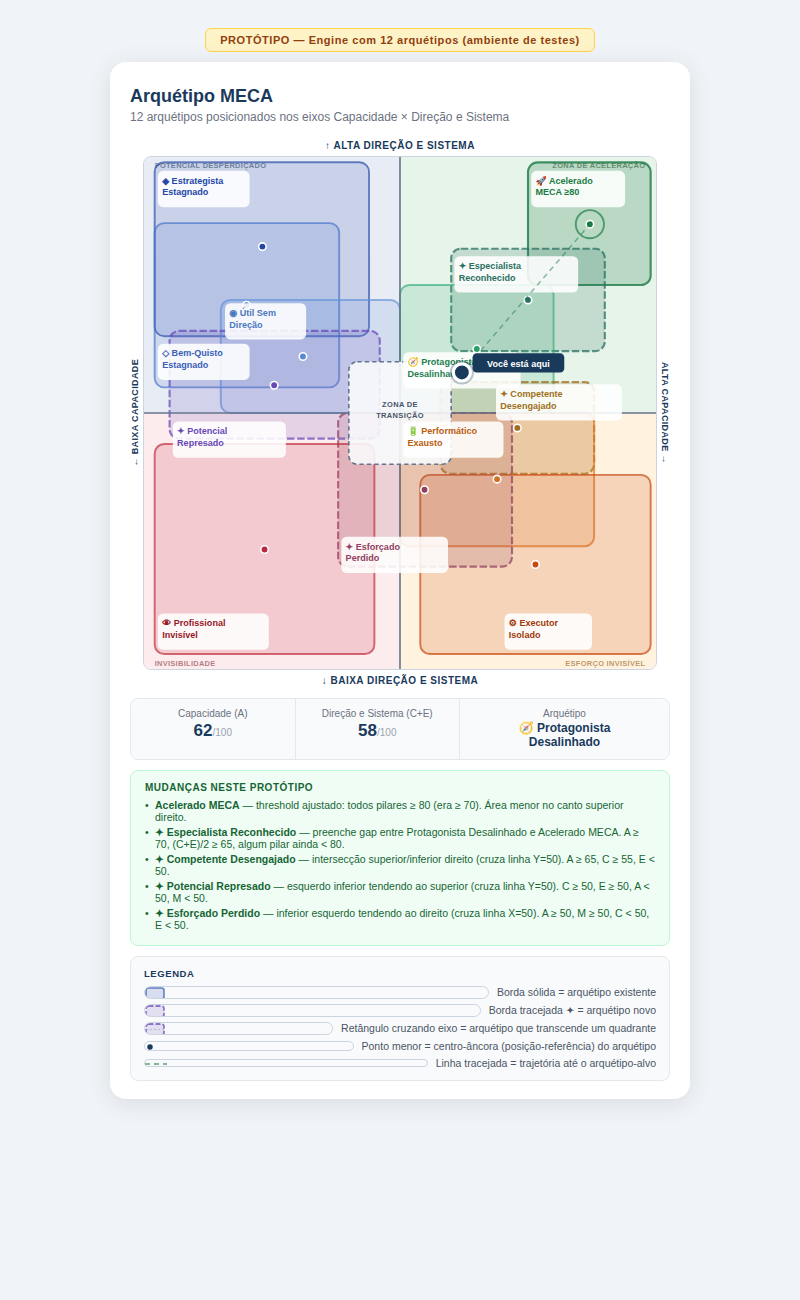
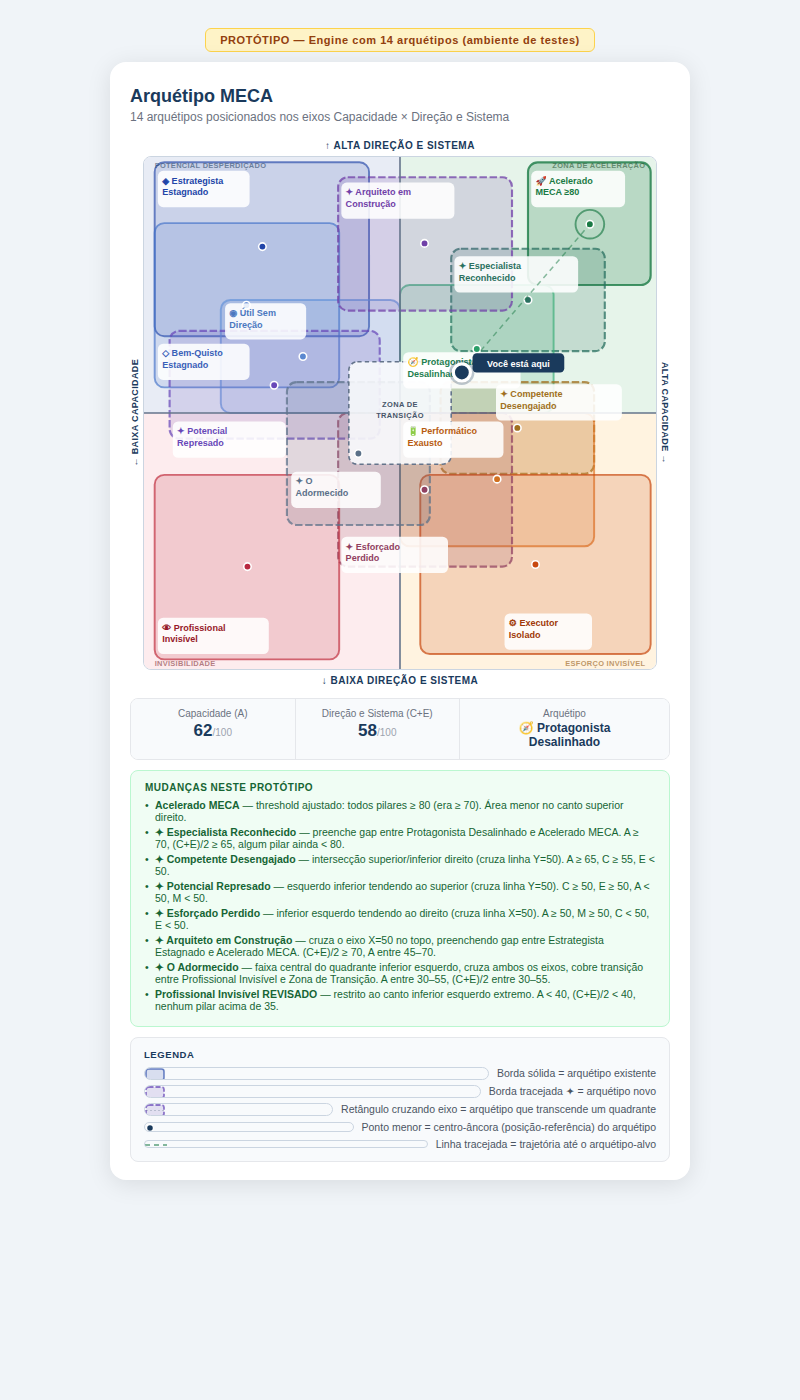
chore(prototype): add archetypes 13-14 and revise Profissional Invisível
- Arquiteto em Construção: spans top-left/right, fills gap Estrategista↔MECA
- O Adormecido: central bottom-left band, crosses both axes
- Profissional Invisível: restricted to extreme bottom-left (A<40, Y<40)

https://claude.ai/code/session_0135fevRsRrq1ujBACc851Ey

Changed region(s): [[0.1562, 0.0, 0.8438, 0.8308]]

diff --git a/archetype-graph-prototype.html b/archetype-graph-prototype.html
@@ -3,7 +3,7 @@
 <head>
   <meta charset="UTF-8">
   <meta name="viewport" content="width=device-width, initial-scale=1.0">
-  <title>Arquétipo MECA — Protótipo 12 Arquétipos</title>
+  <title>Arquétipo MECA — Protótipo 14 Arquétipos</title>
   <style>
     *, *::before, *::after { box-sizing: border-box; margin: 0; padding: 0; }
     body {
@@ -72,11 +72,11 @@
 </head>
 <body>
 
-<div class="badge">PROTÓTIPO — Engine com 12 arquétipos (ambiente de testes)</div>
+<div class="badge">PROTÓTIPO — Engine com 14 arquétipos (ambiente de testes)</div>
 
 <div class="card">
   <h2>Arquétipo MECA</h2>
-  <p class="subtitle">12 arquétipos posicionados nos eixos Capacidade × Direção e Sistema</p>
+  <p class="subtitle">14 arquétipos posicionados nos eixos Capacidade × Direção e Sistema</p>
 
   <div class="axis-top">↑ ALTA DIREÇÃO E SISTEMA</div>
 
@@ -104,6 +104,9 @@
       Performático Exausto     data x=50..88 y=24..50
       Executor Isolado         data x=54..99 y= 3..38
       Esforçado Perdido        data x=38..72 y=20..50  → NOVO (cruza limite inf esq/dir)
+      Arquiteto em Construção  data x=38..72 y=70..96  → NOVO (cruza limite sup esq/dir, topo)
+      O Adormecido             data x=28..56 y=28..56  → NOVO (cruza ambos eixos, inf esq central)
+      Profissional Invisível   data x= 2..38 y= 2..38  → REVISADO (restrito ao canto inf esq extremo)
     ══════════════════════════════════════════
     -->
     <svg viewBox="0 0 480 480" xmlns="http://www.w3.org/2000/svg">
@@ -174,9 +177,21 @@
               stroke-dasharray="7,2.5"/>
 
         <!-- ── BOTTOM-LEFT: Zona de Invisibilidade ── -->
-        <!-- Profissional Invisível: data x=2..45, y=3..44 -->
-        <rect x="10"  y="269" width="206" height="197" rx="9"
+        <!-- Profissional Invisível REVISADO: data x=2..38, y=2..38 → canto extremo inf esq -->
+        <rect x="10"  y="298" width="173" height="173" rx="9"
               fill="#c03040" fill-opacity="0.18" stroke="#c03040" stroke-width="1.8" stroke-opacity="0.70"/>
+
+        <!-- ── SPANNING top-left / top-right (topo) ── -->
+        <!-- Arquiteto em Construção (NOVO): data x=38..72, y=70..96 → cruza X=50 no topo -->
+        <rect x="182" y="19"  width="163" height="125" rx="9"
+              fill="#7040a8" fill-opacity="0.17" stroke="#7040a8" stroke-width="2"   stroke-opacity="0.75"
+              stroke-dasharray="7,2.5"/>
+
+        <!-- ── SPANNING all four borders around center ── -->
+        <!-- O Adormecido (NOVO): data x=28..56, y=28..56 → cruza X=50 e Y=50, inf esq central -->
+        <rect x="134" y="211" width="134" height="134" rx="9"
+              fill="#5a7088" fill-opacity="0.17" stroke="#5a7088" stroke-width="2"   stroke-opacity="0.72"
+              stroke-dasharray="7,2.5"/>
 
       </g>
 
@@ -268,11 +283,25 @@
       <text x="342" y="451" font-size="8.5" font-weight="700" fill="#a03808">   Isolado</text>
       <circle cx="367" cy="382" r="3.5" fill="#c84810" stroke="white" stroke-width="1.5"/>
 
-      <!-- 12. Profissional Invisível — lower-left of its rect -->
-      <rect x="13" y="428" width="104" height="34" rx="5" fill="white" fill-opacity="0.88"/>
-      <text x="17" y="440" font-size="8.5" font-weight="700" fill="#961828">👁 Profissional</text>
-      <text x="17" y="451" font-size="8.5" font-weight="700" fill="#961828">   Invisível</text>
-      <circle cx="113" cy="368" r="3.5" fill="#b82840" stroke="white" stroke-width="1.5"/>
+      <!-- 12. Profissional Invisível REVISADO — canto extremo, rect menor -->
+      <rect x="13" y="432" width="104" height="34" rx="5" fill="white" fill-opacity="0.88"/>
+      <text x="17" y="444" font-size="8.5" font-weight="700" fill="#961828">👁 Profissional</text>
+      <text x="17" y="455" font-size="8.5" font-weight="700" fill="#961828">   Invisível</text>
+      <circle cx="97" cy="384" r="3.5" fill="#b82840" stroke="white" stroke-width="1.5"/>
+
+      <!-- 13. Arquiteto em Construção (NOVO) — topo, cruza o eixo X=50 -->
+      <!-- rect svg x=182..345, y=19..144 | center (263, 81) -->
+      <rect x="185" y="24" width="106" height="34" rx="5" fill="white" fill-opacity="0.88"/>
+      <text x="189" y="36"  font-size="8.5" font-weight="700" fill="#7040a8">✦ Arquiteto em</text>
+      <text x="189" y="47"  font-size="8.5" font-weight="700" fill="#7040a8">   Construção</text>
+      <circle cx="263" cy="81" r="3.5" fill="#7040a8" stroke="white" stroke-width="1.5"/>
+
+      <!-- 14. O Adormecido (NOVO) — inf esq central, cruza X=50 e Y=50 -->
+      <!-- rect svg x=134..268, y=211..345 | center (201, 278) -->
+      <rect x="138" y="295" width="84" height="34" rx="5" fill="white" fill-opacity="0.88"/>
+      <text x="142" y="307" font-size="8.5" font-weight="700" fill="#5a7088">✦ O</text>
+      <text x="142" y="318" font-size="8.5" font-weight="700" fill="#5a7088">   Adormecido</text>
+      <circle cx="201" cy="278" r="3.5" fill="#5a7088" stroke="white" stroke-width="1.5"/>
 
       <!-- ════════════════════════════
            USER POSITION
@@ -333,6 +362,9 @@
     <div class="change-item"><strong>✦ Competente Desengajado</strong> — intersecção superior/inferior direito (cruza linha Y=50). A ≥ 65, C ≥ 55, E &lt; 50.</div>
     <div class="change-item"><strong>✦ Potencial Represado</strong> — esquerdo inferior tendendo ao superior (cruza linha Y=50). C ≥ 50, E ≥ 50, A &lt; 50, M &lt; 50.</div>
     <div class="change-item"><strong>✦ Esforçado Perdido</strong> — inferior esquerdo tendendo ao direito (cruza linha X=50). A ≥ 50, M ≥ 50, C &lt; 50, E &lt; 50.</div>
+    <div class="change-item"><strong>✦ Arquiteto em Construção</strong> — cruza o eixo X=50 no topo, preenchendo gap entre Estrategista Estagnado e Acelerado MECA. (C+E)/2 ≥ 70, A entre 45–70.</div>
+    <div class="change-item"><strong>✦ O Adormecido</strong> — faixa central do quadrante inferior esquerdo, cruza ambos os eixos, cobre transição entre Profissional Invisível e Zona de Transição. A entre 30–55, (C+E)/2 entre 30–55.</div>
+    <div class="change-item"><strong>Profissional Invisível REVISADO</strong> — restrito ao canto inferior esquerdo extremo. A &lt; 40, (C+E)/2 &lt; 40, nenhum pilar acima de 35.</div>
   </div>
 
   <!-- Legend -->
